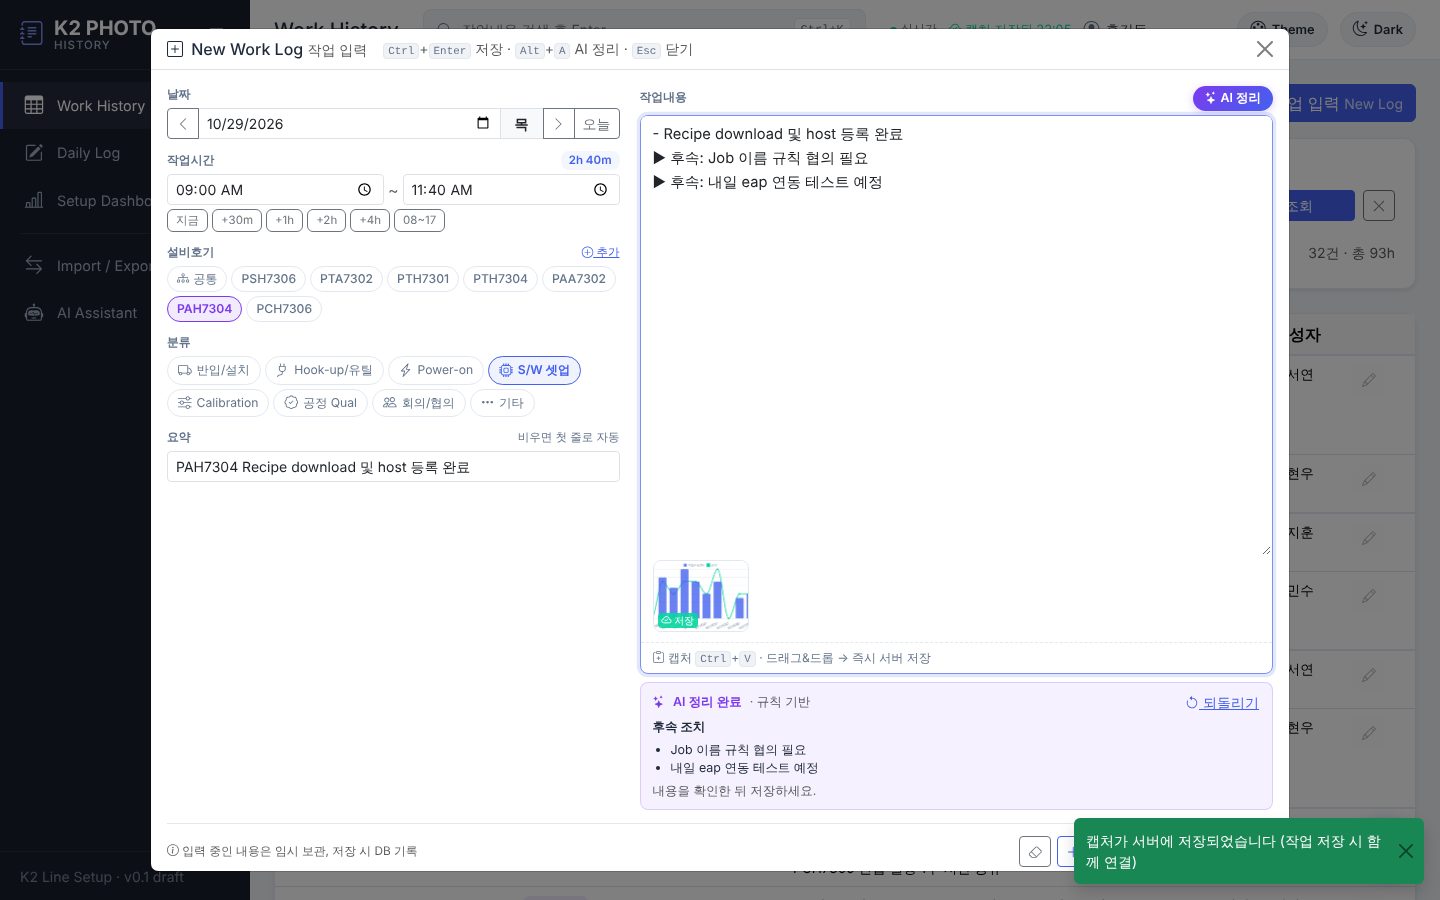
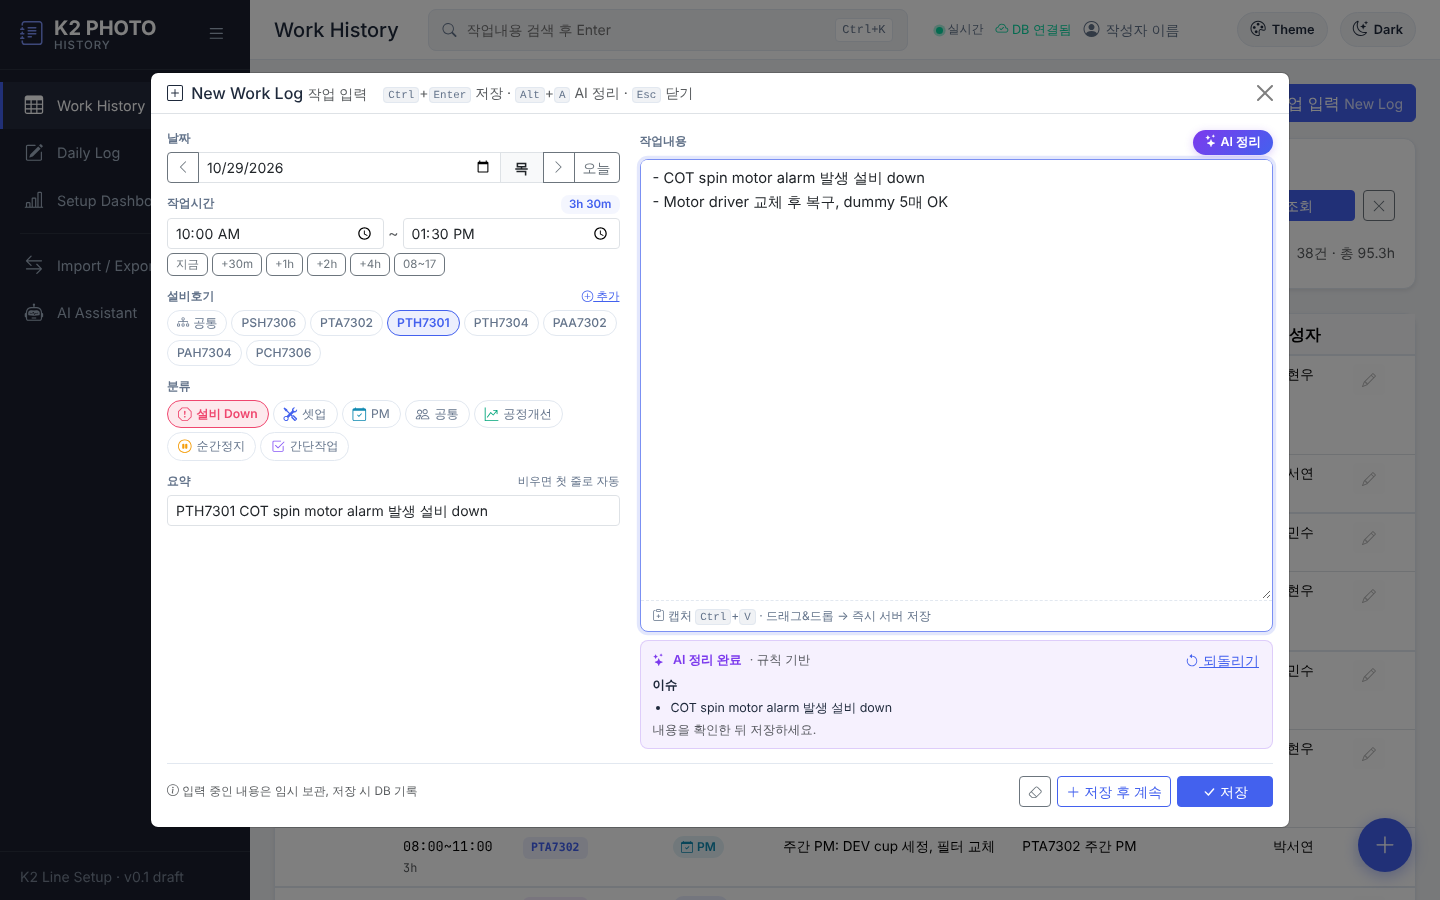
작업 분류 단순화: 설비 Down / 셋업 / PM / 공통 / 공정개선 / 순간정지 / 간단작업
- 분류별 아이콘·색상, 기본값 간단작업
- 기존 세분류(반입·Hook-up·Power-on·S/W·Cal·Qual→셋업, 회의→공통, 기타→간단작업) 시작 시 자동 변환
- AI 정리 규칙/LLM 프롬프트를 새 분류 기준으로 갱신, 테스트 추가

Claude-Session: https://claude.ai/code/session_019eSpeYa8ZdbGRN4SeSLfjE

diff --git a/static/js/main.js b/static/js/main.js
@@ -4,7 +4,7 @@
 const state = {
     meta: { equipment: [], categories: [], authors: [] },
     selectedEquip: new Set(),
-    category: 'ETC',
+    category: 'SIMPLE',
     editingId: null,       // 입력 폼으로 수정 중인 기록 id (Daily Log 인라인 또는 팝업)
     dayLogs: [],
     historyLogs: [],
@@ -27,7 +27,9 @@ const weekday = (s) => WEEKDAYS[new Date(s + 'T00:00:00').getDay()];
 const fmtHours = (min) => (min ? `${Math.round((min / 60) * 10) / 10}h` : '0h');
 const fmtDur = (min) => (min == null ? '' : min >= 60 ? `${Math.floor(min / 60)}h ${min % 60 ? (min % 60) + 'm' : ''}`.trim() : `${min}m`);
 const esc = (s) => String(s ?? '').replace(/[&<>"']/g, (c) => ({ '&': '&amp;', '<': '&lt;', '>': '&gt;', '"': '&quot;', "'": '&#39;' }[c]));
-const catOf = (code) => state.meta.categories.find((c) => c.code === code) || { label: code, icon: 'bi-tag' };
+const catOf = (code) => state.meta.categories.find((c) => c.code === code) || { label: code, icon: 'bi-tag', color: '#64748b' };
+const defaultCategory = () => state.meta.default_category || 'SIMPLE';
+const catBadge = (code) => { const c = catOf(code); return `<span class="cat-badge" style="--cat:${c.color}"><i class="bi ${c.icon}"></i>${esc(c.label)}</span>`; };
 const equipInfo = (name) => state.meta.equipment.find((e) => e.name === name);
 
 function storage(key, value) {
@@ -116,7 +118,7 @@ async function loadMeta() {
     const catOpts = state.meta.categories.map((c) => `<option value="${c.code}">${esc(c.label)}</option>`).join('');
     $('#filterCategory').innerHTML = `<option value="">전체</option>${catOpts}`;
     $('#importCategory').innerHTML = catOpts;
-    $('#importCategory').value = 'ETC';
+    $('#importCategory').value = defaultCategory();
     $('#filterEquip').innerHTML = `<option value="">전체</option><option value="${COMMON}">${COMMON}</option>` +
         state.meta.equipment.map((e) => `<option>${esc(e.name)}</option>`).join('');
 }
@@ -202,7 +204,7 @@ function clearForm(keepDate = true) {
     $('#entryForm').reset();
     $('#entryDate').value = keepDate && date ? date : today();
     state.selectedEquip = new Set();
-    setCategory('ETC', false);  // 수정 취소 시 임시보관을 덮어쓰지 않도록 저장하지 않음
+    setCategory(defaultCategory(), false);  // 수정 취소 시 임시보관을 덮어쓰지 않도록 저장하지 않음
     state.attachments = [];
     renderAttachments();
     renderEquipChips();
@@ -332,12 +334,11 @@ function renderDay() {
         return;
     }
     $('#dayTimeline').innerHTML = logs.map((l) => {
-        const c = catOf(l.category);
         const body = l.summary_auto ? l.content.split('\n').slice(1).join('\n').trim() : l.content;
         return `<div class="timeline-item ${state.editingId === l.id ? 'editing' : ''} ${state.freshIds && state.freshIds.has(l.id) ? 'fresh' : ''}">
             <div class="timeline-time">${l.start_time ? `${l.start_time}~${l.end_time || ''}` : '<span class="text-muted">시간 미입력</span>'}<small>${fmtDur(l.duration_min)}</small></div>
             <div>
-                <div class="mb-1">${eqBadges(l.equipment_list)} <span class="cat-badge"><i class="bi ${c.icon}"></i>${esc(c.label)}</span></div>
+                <div class="mb-1">${eqBadges(l.equipment_list)} ${catBadge(l.category)}</div>
                 <div class="timeline-summary">${esc(l.summary)}${l.summary_auto ? '<span class="auto-tag">자동</span>' : ''}</div>
                 ${body ? `<div class="timeline-content">${esc(body)}</div>` : ''}
                 ${thumbsHtml(l.attachments)}
@@ -385,12 +386,11 @@ async function loadHistory() {
     const rows = state.historyLogs.map((l) => {
         const first = l.work_date !== lastDate;
         lastDate = l.work_date;
-        const c = catOf(l.category);
         return `<tr class="${first ? 'date-first' : ''}">
             <td class="date-cell">${first ? `${l.work_date.slice(5).replace('-', '/')}<small>${l.work_date.slice(0, 4)} (${weekday(l.work_date)})</small>` : ''}</td>
             <td class="font-mono">${l.start_time ? `${l.start_time}~${l.end_time || ''}` : '-'}<br><small class="text-muted">${fmtDur(l.duration_min)}</small></td>
             <td>${eqBadges(l.equipment_list)}</td>
-            <td><span class="cat-badge"><i class="bi ${c.icon}"></i>${esc(c.label)}</span></td>
+            <td>${catBadge(l.category)}</td>
             <td class="content-cell">${highlight(l.content, q)}${thumbsHtml(l.attachments)}</td>
             <td>${highlight(l.summary, q)}${l.summary_auto ? '<span class="auto-tag">자동</span>' : ''}</td>
             <td class="small">${esc(l.author || '')}</td>
@@ -520,7 +520,7 @@ async function runAi() {
             ...cur,
             content: r.content,
             summary: r.summary,
-            category: r.category !== 'ETC' ? r.category : cur.category,
+            category: r.category !== defaultCategory() ? r.category : cur.category,
             equipment,
             start_time: cur.start_time || r.start_time || '',
             end_time: cur.end_time || r.end_time || '',
@@ -615,8 +615,8 @@ async function loadStats() {
     const max = Math.max(1, ...s.by_category.map((c) => c.count));
     $('#categoryBars').innerHTML = s.by_category.map((c) => {
         const cat = catOf(c.code);
-        return `<div class="cat-bar"><div class="cat-bar-head"><span><i class="bi ${cat.icon} me-1"></i>${esc(cat.label)}</span><span class="text-muted">${c.count}건 · ${fmtHours(c.minutes)}</span></div>
-            <div class="cat-bar-track"><div class="cat-bar-fill" style="width:${(c.count / max) * 100}%"></div></div></div>`;
+        return `<div class="cat-bar"><div class="cat-bar-head"><span><i class="bi ${cat.icon} me-1" style="color:${cat.color}"></i>${esc(cat.label)}</span><span class="text-muted">${c.count}건 · ${fmtHours(c.minutes)}</span></div>
+            <div class="cat-bar-track"><div class="cat-bar-fill" style="width:${(c.count / max) * 100}%; background:${cat.color}"></div></div></div>`;
     }).join('') || '<div class="empty-state">데이터 없음</div>';
 
     const byEq = Object.fromEntries(s.by_equipment.map((e) => [e.equipment, e]));

diff --git a/templates/index.html b/templates/index.html
@@ -115,7 +115,7 @@
                             </div>
                             <div>
                                 <label class="mini-label">분류</label>
-                                <div class="cat-pills" id="categoryGrid">{% for code, label, icon in categories %}<button type="button" class="work-type-btn{% if code == 'ETC' %} active{% endif %}" data-category="{{ code }}"><i class="bi {{ icon }}"></i>{{ label }}</button>{% endfor %}</div>
+                                <div class="cat-pills" id="categoryGrid">{% for code, label, icon, color in categories %}<button type="button" class="work-type-btn{% if code == default_category %} active{% endif %}" data-category="{{ code }}" style="--cat: {{ color }}"><i class="bi {{ icon }}"></i>{{ label }}</button>{% endfor %}</div>
                             </div>
                             <div>
                                 <label class="mini-label">요약 <small class="fw-normal">비우면 첫 줄로 자동</small></label>

diff --git a/static/css/main.css b/static/css/main.css
@@ -574,3 +574,11 @@ mark { padding: 0 2px; background: rgba(255,209,102,0.5); border-radius: 2px; }
 }
 .fab-button:hover { background: var(--primary-dark); transform: scale(1.08); }
 .toast-container { z-index: 1090; }
+
+/* 분류 색상 (--cat 은 분류별로 inline 지정) */
+.cat-badge { --cat: var(--text-secondary); padding: 2px 8px; border-radius: 20px; font-weight: 600;
+    color: var(--cat); background: color-mix(in srgb, var(--cat) 12%, transparent); }
+.cat-badge i { color: var(--cat); }
+.cat-pills .work-type-btn i { color: var(--cat); }
+.cat-pills .work-type-btn:hover { border-color: var(--cat); color: var(--cat); }
+.cat-pills .work-type-btn.active { border-color: var(--cat); color: var(--cat); background: color-mix(in srgb, var(--cat) 12%, transparent); }

diff --git a/app.py b/app.py
@@ -31,18 +31,23 @@ DEFAULT_EQUIPMENT = [
 ]
 VENDOR_MAP = {'T': 'TEL', 'A': 'ASML', 'S': 'SEMES', 'C': 'CANON'}
 
-# 라인 셋업 단계 분류
+# 작업 분류 (code, 표시명, 아이콘, 색상)
 CATEGORIES = [
-    ('MOVE_IN', '반입/설치', 'bi-truck'),
-    ('HOOKUP', 'Hook-up/유틸', 'bi-plug'),
-    ('POWER_ON', 'Power-on', 'bi-lightning-charge'),
-    ('SW', 'S/W 셋업', 'bi-cpu'),
-    ('CAL', 'Calibration', 'bi-sliders'),
-    ('QUAL', '공정 Qual', 'bi-patch-check'),
-    ('MEETING', '회의/협의', 'bi-people'),
-    ('ETC', '기타', 'bi-three-dots'),
+    ('DOWN', '설비 Down', 'bi-exclamation-octagon', '#ef476f'),
+    ('SETUP', '셋업', 'bi-tools', '#4361ee'),
+    ('PM', 'PM', 'bi-calendar-check', '#118ab2'),
+    ('COMMON', '공통', 'bi-people', '#64748b'),
+    ('PROCESS', '공정개선', 'bi-graph-up-arrow', '#06a77d'),
+    ('MINOR_STOP', '순간정지', 'bi-pause-circle', '#f59e0b'),
+    ('SIMPLE', '간단작업', 'bi-check2-square', '#8b5cf6'),
 ]
 CATEGORY_CODES = {c[0] for c in CATEGORIES}
+DEFAULT_CATEGORY = 'SIMPLE'
+# 이전 버전(셋업 단계 세분류) → 새 분류 자동 변환
+LEGACY_CATEGORY_MAP = {
+    'MOVE_IN': 'SETUP', 'HOOKUP': 'SETUP', 'POWER_ON': 'SETUP', 'SW': 'SETUP', 'CAL': 'SETUP', 'QUAL': 'SETUP',
+    'MEETING': 'COMMON', 'ETC': 'SIMPLE',
+}
 
 
 def vendor_of(name):
@@ -81,7 +86,7 @@ def init_db():
             end_time TEXT,
             duration_min INTEGER,
             equipment TEXT NOT NULL DEFAULT '공통',
-            category TEXT NOT NULL DEFAULT 'ETC',
+            category TEXT NOT NULL DEFAULT 'SIMPLE',
             content TEXT NOT NULL,
             summary TEXT,
             summary_auto INTEGER DEFAULT 0,
@@ -103,6 +108,8 @@ def init_db():
         );
         CREATE INDEX IF NOT EXISTS idx_attach_log ON attachments(log_id);
     ''')
+    for old, new in LEGACY_CATEGORY_MAP.items():
+        conn.execute('UPDATE work_logs SET category = ? WHERE category = ?', (new, old))
     if conn.execute('SELECT COUNT(*) FROM equipment').fetchone()[0] == 0:
         conn.executemany('INSERT INTO equipment (name, vendor, category) VALUES (?, ?, ?)',
                          [(n, vendor_of(n), category_of(n)) for n in DEFAULT_EQUIPMENT])
@@ -225,7 +232,7 @@ def build_record(data):
         'end_time': end,
         'duration_min': int(duration) if duration not in (None, '') else None,
         'equipment': normalize_equipment(data.get('equipment')),
-        'category': data.get('category') or 'ETC',
+        'category': data.get('category') or DEFAULT_CATEGORY,
         'content': content,
         'summary': summary or auto_summary(content),
         'summary_auto': 0 if summary else 1,
@@ -266,7 +273,8 @@ def query_logs(args):
 
 @app.route('/')
 def index():
-    return render_template('index.html', categories=CATEGORIES, common=COMMON)
+    return render_template('index.html', categories=CATEGORIES, common=COMMON,
+                           default_category=DEFAULT_CATEGORY)
 
 
 # ─── Meta ─────────────────────────────────────────────
@@ -282,7 +290,8 @@ def api_meta():
     return jsonify({
         'equipment': equipment,
         'authors': authors,
-        'categories': [{'code': c, 'label': l, 'icon': i} for c, l, i in CATEGORIES],
+        'categories': [{'code': c, 'label': l, 'icon': i, 'color': col} for c, l, i, col in CATEGORIES],
+        'default_category': DEFAULT_CATEGORY,
         'common': COMMON,
         'ai_engine': llm.engine_name(),
         'ai_enabled': llm.is_enabled(),
@@ -455,7 +464,8 @@ def api_ai_organize():
         'equipment': data.get('equipment') or [],
         'category': data.get('category'),
         'known_equipment': known,
-        'categories': [(c, l) for c, l, _ in CATEGORIES],
+        'categories': [(c, l) for c, l, *_ in CATEGORIES],
+        'default_category': DEFAULT_CATEGORY,
         'common': COMMON,
     })
     return jsonify(result)
@@ -505,8 +515,8 @@ def api_stats():
 
 EXPORT_COLS = [('work_date', '날짜'), ('time', '작업시간'), ('equipment', '설비호기'),
                ('category', '분류'), ('content', '작업내용'), ('summary', '요약'), ('author', '작성자')]
-CATEGORY_LABEL = {c: l for c, l, _ in CATEGORIES}
-LABEL_TO_CATEGORY = {l: c for c, l, _ in CATEGORIES}
+CATEGORY_LABEL = {c: l for c, l, *_ in CATEGORIES}
+LABEL_TO_CATEGORY = {l: c for c, l, *_ in CATEGORIES}
 
 
 def export_row(r):
@@ -610,7 +620,7 @@ def api_import():
         rows.append(build_record({
             'work_date': d, 'start_time': start, 'end_time': end,
             'equipment': cols[2], 'content': cols[3], 'summary': cols[4],
-            'category': LABEL_TO_CATEGORY.get(data.get('category'), data.get('category') or 'ETC'),
+            'category': LABEL_TO_CATEGORY.get(data.get('category'), data.get('category') or DEFAULT_CATEGORY),
             'author': data.get('author'),
         }))
     if not dry_run and rows:

diff --git a/seed_data.py b/seed_data.py
@@ -5,17 +5,21 @@ import app as k2
 
 AUTHORS = ['김민수', '이지훈', '박서연', '최현우']
 TEMPLATES = [
-    ('MOVE_IN', ['PAA7302'], '08:30', '11:30', 'Scanner 본체 반입 및 위치 Marking 확인\n- 반입 경로 floor load 확인 완료\n- 벤더(ASML) FSE 3명 지원', 'PAA7302 본체 반입 완료'),
-    ('HOOKUP', ['PAA7302', 'PAH7304'], '13:00', '17:00', 'PCW / CDA / Exhaust Hook-up 점검\n- PAH7304 CDA 압력 낮음 → 설비팀 요청', ''),
-    ('POWER_ON', ['PTA7302'], '09:00', '10:30', 'Track Power-on 및 Interlock 점검\n- EMO 동작 확인 OK', 'PTA7302 Power-on OK'),
-    ('SW', ['PTH7304'], '10:30', '12:00', 'Track S/W 설치, Host 연동 테스트 (EAP 통신 확인)', ''),
-    ('CAL', ['PAA7302'], '13:30', '18:00', 'Wafer stage leveling 확인, Z offset 재조정\n- 1차 결과 spec-in, 내일 재측정 예정', 'Stage leveling 1차 spec-in'),
-    ('QUAL', ['PTA7302', 'PAA7302'], '09:00', '15:00', 'Inline 연결 후 Dummy wafer 25매 Run\n- CD uniformity 확인 필요', 'Inline Dummy Run 25매'),
-    ('MEETING', [k2.COMMON], '16:00', '17:00', '주간 셋업 일정 점검 회의 (설비/공정/벤더)\n- PCH7306 반입 일정 1주 지연 공유', '주간 셋업 회의'),
-    ('ETC', [k2.COMMON], None, None, '클린룸 출입 교육 이수 (신규 벤더 인원 5명)', ''),
-    ('HOOKUP', ['PSH7306'], '08:00', '12:00', 'SEMES Track Drain / Solvent 배관 연결, 누수 점검', ''),
-    ('CAL', ['PCH7306'], '13:00', '16:30', 'Reticle stage 초기 Calibration, Alignment mark 인식 확인', ''),
-    ('SW', ['PAH7304'], '14:00', '16:00', 'Recipe download 및 Host 등록\n- Job 이름 규칙 협의 필요', 'Recipe download 완료'),
+    ('SETUP', ['PAA7302'], '08:30', '11:30', 'Scanner 본체 반입 및 위치 Marking 확인\n- 반입 경로 floor load 확인 완료\n- 벤더(ASML) FSE 3명 지원', 'PAA7302 본체 반입 완료'),
+    ('SETUP', ['PAA7302', 'PAH7304'], '13:00', '17:00', 'PCW / CDA / Exhaust Hook-up 점검\n- PAH7304 CDA 압력 낮음 → 설비팀 요청', ''),
+    ('SETUP', ['PTA7302'], '09:00', '10:30', 'Track Power-on 및 Interlock 점검\n- EMO 동작 확인 OK', 'PTA7302 Power-on OK'),
+    ('SETUP', ['PTH7304'], '10:30', '12:00', 'Track S/W 설치, Host 연동 테스트 (EAP 통신 확인)', ''),
+    ('SETUP', ['PAA7302'], '13:30', '18:00', 'Wafer stage leveling 확인, Z offset 재조정\n- 1차 결과 spec-in, 내일 재측정 예정', 'Stage leveling 1차 spec-in'),
+    ('PROCESS', ['PTA7302', 'PAA7302'], '09:00', '15:00', 'Inline 연결 후 Dummy wafer 25매 Run\n- CD uniformity 확인 필요', 'Inline Dummy Run 25매'),
+    ('COMMON', [k2.COMMON], '16:00', '17:00', '주간 셋업 일정 점검 회의 (설비/공정/벤더)\n- PCH7306 반입 일정 1주 지연 공유', '주간 셋업 회의'),
+    ('SIMPLE', [k2.COMMON], None, None, '클린룸 출입 교육 이수 (신규 벤더 인원 5명)', ''),
+    ('SETUP', ['PSH7306'], '08:00', '12:00', 'SEMES Track Drain / Solvent 배관 연결, 누수 점검', ''),
+    ('SETUP', ['PCH7306'], '13:00', '16:30', 'Reticle stage 초기 Calibration, Alignment mark 인식 확인', ''),
+    ('SETUP', ['PAH7304'], '14:00', '16:00', 'Recipe download 및 Host 등록\n- Job 이름 규칙 협의 필요', 'Recipe download 완료'),
+    ('DOWN', ['PTH7301'], '10:00', '13:30', 'COT unit spin motor alarm 발생 → 설비 Down\n- Motor driver 교체 후 복구, Dummy 5매 확인 OK', 'PTH7301 COT spin motor 교체 복구'),
+    ('MINOR_STOP', ['PAA7302'], '15:10', '15:25', 'Wafer handler 순간정지 (robot timeout), 리셋 후 정상 진행', 'Handler robot timeout 순간정지'),
+    ('PM', ['PTA7302'], '08:00', '11:00', '주간 PM: DEV cup 세정, 필터 교체', 'PTA7302 주간 PM'),
+    ('PROCESS', ['PAH7304'], '13:00', '15:00', 'Focus offset 미세 조정으로 CD uniformity 개선 (3σ 2.1 → 1.6nm)', 'Focus 조정 CD 균일도 개선'),
 ]
 
 

diff --git a/tests/test_api.py b/tests/test_api.py
@@ -1,6 +1,6 @@
 def _create(client, **kw):
     body = {'work_date': '2026-10-27', 'start_time': '09:00', 'end_time': '11:30',
-            'equipment': ['PAA7302'], 'category': 'CAL', 'content': 'Stage leveling 확인\n상세 내용'}
+            'equipment': ['PAA7302'], 'category': 'SETUP', 'content': 'Stage leveling 확인\n상세 내용'}
     body.update(kw)
     return client.post('/api/logs', json=body)
 
@@ -80,3 +80,30 @@ def test_stats(client):
     s = client.get('/api/stats').get_json()
     assert s['today_count'] == 1 and s['today_minutes'] == 150
     assert len(s['daily']) == 14
+
+
+def test_categories_and_legacy_migration(client):
+    import sqlite3
+    import app as k2
+    meta = client.get('/api/meta').get_json()
+    assert [c['label'] for c in meta['categories']] == ['설비 Down', '셋업', 'PM', '공통', '공정개선', '순간정지', '간단작업']
+    assert meta['default_category'] == 'SIMPLE'
+    log = client.post('/api/logs', json={'work_date': '2026-10-27', 'content': 'x'}).get_json()
+    assert log['category'] == 'SIMPLE'
+    conn = sqlite3.connect(k2.DATABASE)
+    conn.execute("UPDATE work_logs SET category = 'CAL' WHERE id = ?", (log['id'],))
+    conn.commit(); conn.close()
+    k2.init_db()
+    assert client.get('/api/logs').get_json()[0]['category'] == 'SETUP'
+
+
+def test_rule_category_guess():
+    import llm
+    g = llm.guess_category
+    assert g('PTH7301 COT spin motor alarm 발생, 설비 down → motor 교체') == 'DOWN'
+    assert g('handler 순간정지 robot timeout 리셋 후 정상') == 'MINOR_STOP'
+    assert g('주간 PM dev cup 세정') == 'PM'
+    assert g('focus offset 조정으로 CD uniformity 개선') == 'PROCESS'
+    assert g('PCW / CDA hook-up 점검') == 'SETUP'
+    assert g('주간 회의 일정 공유') == 'COMMON'
+    assert g('자료 정리') == 'SIMPLE'

diff --git a/tests/test_attachments_ai.py b/tests/test_attachments_ai.py
@@ -61,7 +61,7 @@ def test_ai_organize_rule_fallback(client):
     assert r['engine'] == 'rule'
     assert r['equipment'] == ['PAA7302']
     assert (r['start_time'], r['end_time']) == ('13:00', '17:30')
-    assert r['category'] == 'CAL'
+    assert r['category'] == 'SETUP'
     assert '▶ 후속: 내일 재측정 예정' in r['content']
     assert client.post('/api/ai/organize', json={'content': ' '}).status_code == 400
 
@@ -74,7 +74,7 @@ def test_ai_organize_llm(client, monkeypatch):
     def fake_chat(messages, **kw):
         sent['messages'] = messages
         return '```json\n' + json.dumps({
-            'content': '- Stage leveling 확인', 'summary': 'PAA7302 leveling', 'category': 'CAL',
+            'content': '- Stage leveling 확인', 'summary': 'PAA7302 leveling', 'category': 'SETUP',
             'equipment': ['paa7302', '엉뚱한값'], 'start_time': '25:00', 'end_time': None,
             'issues': [], 'next_actions': ['재측정']}, ensure_ascii=False) + '\n```'
     monkeypatch.setattr(llm, 'chat', fake_chat)
@@ -85,4 +85,4 @@ def test_ai_organize_llm(client, monkeypatch):
 
     monkeypatch.setattr(llm, 'chat', lambda *a, **k: 'not json')
     r = client.post('/api/ai/organize', json={'content': 'PTA7302 power on'}).get_json()
-    assert r['engine'] == 'rule' and 'warning' in r and r['category'] == 'POWER_ON'
+    assert r['engine'] == 'rule' and 'warning' in r and r['category'] == 'SETUP'
